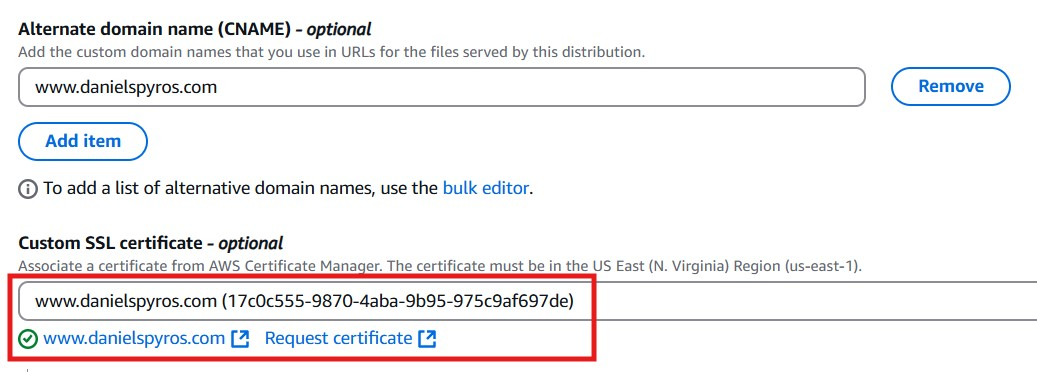
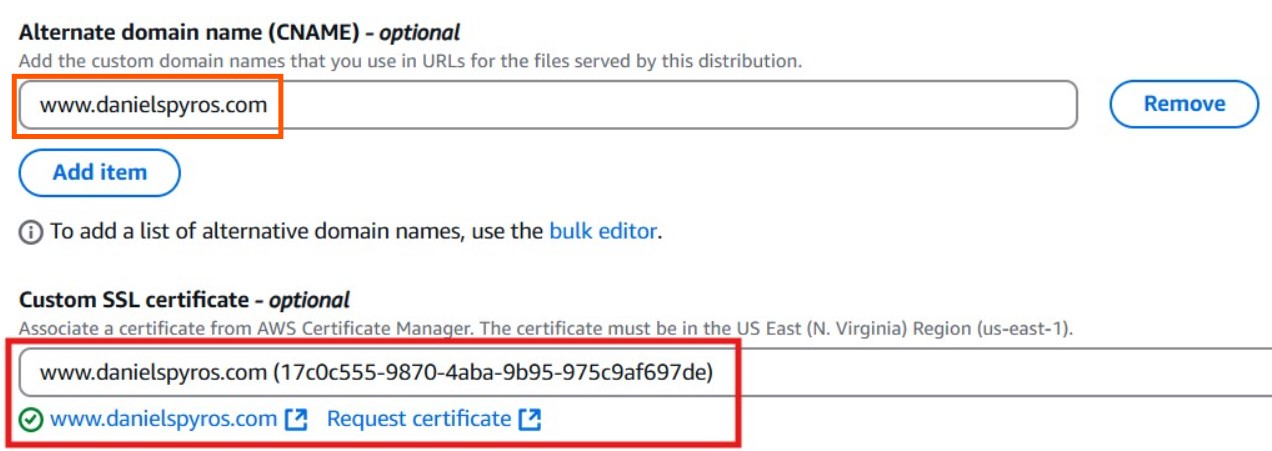
Add: cloudfront tutorial

Changed region(s): [[0.0, 0.621, 1.0, 1.0], [0.0, 0.0296, 1.0, 0.4435], [0.0, 0.4731, 0.5246, 0.5618]]

diff --git a/_posts/2025-01-19-Cloudfront.md b/_posts/2025-01-19-Cloudfront.md
@@ -1,62 +1,101 @@
 ---
-title: Serving Static Site from S3 Bucket over HTTPS with Cloudfront
+title: Serving Static Site from S3 Bucket over HTTPS with CloudFront
 description: 
-date: 2026-01-19 09:36:00 +0000
+date: 2025-01-19 13:36:00 +0000
 categories: [Software, Projects]
 tags: [aws, projects]
 author: daniel
 ---
-# Configuring for HTTPS
+# Overview
+
+This tutorial follows on from [Deploying a static site on AWS]({% post_url 2025-01-19-DeployingStaticSiteOnAWS %}). I will go through how to configure the site, that we set up in the last tutorial, to be served over HTTPS. 
+
+## Related Tutorials
+- Creating a static website using Jekyll (coming soon). 
+- [Deploying a static site on AWS]({% post_url 2025-01-19-DeployingStaticSiteOnAWS %}).
+- Serving Static Site from S3 Bucket over HTTPS with Cloudfront (this tutorial).
+- Automating the deployment of a static site using Github Actions (coming soon).
+
+# Prerequisites.
+
+1. A site being served from an S3 bucket. See [Deploying a static site on AWS]({% post_url 2025-01-19-DeployingStaticSiteOnAWS %}).
+2. Domain in Route53.
+
+# Tutorial
+
+## 1. Requesting a certificate
+
+Go to the AWS Certificate Manager and select the `us-east-1` (N. Virginia) region. You must create it in this region to be able to link it to a the CloudFront distribution that we will create afterwards.
+
+![Certificate Manager](/assets/img/Cloudfront/certificatemanager_request.jpg)
+
+Request a new public certificate. Click Next, then enter the fully qualified domain name:
+
+![Request certificate](/assets/img/Cloudfront/cloudfront_requestcertificate.jpg)
+
+This will create the certificate request. Now you need to create the records in Route 53.
+
+![Request Records](/assets/img/Cloudfront/cloudfront_createrecords.jpg)
+
+Once the records are created in Route 53, wait a couple minutes and refresh the certificate page. You should see that it is now issued.
+
+
+![Certificate Issued](/assets/img/Cloudfront/cloudfront_certificate_issue.jpg)
+
+## 2. Creating CloudFront distribution
+
+On the AWS console, go to CloudFront and create a new distribution.
 
 ![Create cloudfront distribution](/assets/img/Cloudfront/cloudfront_createdistribution.jpg)
+
+Select your S3 bucket domain as the Origin.
 
 ![Set cloudfront domain](/assets/img/Cloudfront/cloudfront_domain.jpg)
 
 Click the use website endpoint. This will change it to `www.danielspyros.com.s3-website.eu-west-2.amazonaws.com`.
 
-Leave it on "HTTP Only" and HTTP port 80
+Leave the prortocol on "HTTP Only" and HTTP port 80.
+
+Scroll down to the viewer and select your desired "Viewer protocol policy". Any of these will work so it is up to you.
 
 
 ![Set cloudfront viewer protocol policy](/assets/img/Cloudfront/cloudfront_protocol.jpg)
 
-
-![Set cloudfront certificate and alternate domain name](/assets/img/Cloudfront/cloudfront_certificate.jpg)
-
-Request a public certificate, then click Next.
-
-![Request certificate](/assets/img/Cloudfront/cloudfront_requestcertificate.jpg)
-
-![Request Records](/assets/img/Cloudfront/cloudfront_createrecords.jpg)
-
-Once the records are created in Route53, wait a couple minutes and refresh the certificate page. You should see that it is now issued.
-
-
-![Certificate Issued](/assets/img/Cloudfront/cloudfront_certificate_issue.jpg)
-
-Now that the certificate is issued. Select it in the cloudfront distribution that we were creating.
+Continue scrolling down and set an alternative domain name. You will also need to choose the certificate that we created in step 1. Notice that it says "The certificate must be in the US East (N. Virginia) Region (us-east-1)."  I wasn't making things up.
 
 ![Certificate Selected](/assets/img/Cloudfront/cloudfront_certificate_selected.jpg)
 
-Click Create Distribution. The distribution should now start deploying, this can take a few minutes. You can see its status here:
+Before you click "Create Distribution", you will need to select an option for the Web Application Firewall. Let's leave it disabled for now as it costs and our site is only static pages with no forms. 
+
+Once you click create, the distribution should now start deploying, this can take a few minutes. You can see its status here:
 
 ![Distribution Status](/assets/img/Cloudfront/cloudfront_distribution_deploying.jpg)
 
 It will change to a date once it has finished.
 
+## 3. Creating the alias to the cloudfront distribution
+
+If you followed the previous tutorial, you will have created an alias in Route 53 that linked your S3 bucket to the domain. You can either edit this record to point it to the CloudFront distribution instead, or delete this record and create a new one pointing to the CloudFront distribution.
 
 
+![Route 53 - Create record](/assets/img/Cloudfront/route53_editrecord.jpg)
 
-![Route 53 - Create record](/assets/img/Cloudfront/route53_createrecord.jpg)
+Route traffic to an "Alias to CloudFront distribution" and select your distribution.
 
 ![Route 53 - Create Alias](/assets/img/Cloudfront/route53_creatingalias.jpg)
 
-Leave the Routing Policy on Simple Routing.
+Create the records. They will take a few minutes to propagate, but hopefully it'll be done by the time we finish the next step.
 
+## 4. Modifying S3 Bucket Permissions
 
-# CICD
+Go to your distribution in CloudFront and copy the ARN of your distribution. Paste it in Notepad as we will need it shortly.
 
+![CloudFront ARN](/assets/img/Cloudfront/cloudfront_ids.jpg)
 
-Add permissions to S3 Bucket to allow uploading to bucket and cache invalidations of cloudfront. Not sure if this is for cache invalidations actually. might be configrued in IAM.
+"E18A9KTZH1BYBA" is the distribution id and "123456123123" is the account ID.
+
+Go to S3 and go to your bucket permissions. Edit the permissions to add the `AllowCloudFrontServicePrincipal`. You will need to replace the ARN with the ARN to your distribution. It should look something like this:
+
 ```json
 {
     "Version": "2008-10-17",
@@ -72,7 +111,7 @@ Add permissions to S3 Bucket to allow uploading to bucket and cache invalidation
             "Resource": "arn:aws:s3:::www.danielspyros.com/*",
             "Condition": {
                 "StringEquals": {
-                    "AWS:SourceArn": "arn:aws:cloudfront::296062577759:distribution/E3OSAEDN2J894S"
+                    "AWS:SourceArn": "arn:aws:cloudfront::[ACCOUNT_ID]:distribution/[DISTRIBUTION_ID]"
                 }
             }
         },
@@ -82,26 +121,19 @@ Add permissions to S3 Bucket to allow uploading to bucket and cache invalidation
             "Principal": "*",
             "Action": "s3:GetObject",
             "Resource": "arn:aws:s3:::www.danielspyros.com/*"
-        },
-        {
-            "Sid": "AllowJekyllGithubAction",
-            "Effect": "Allow",
-            "Principal": {
-                "AWS": "arn:aws:iam::296062577759:user/DanielBlogGithubActions"
-            },
-            "Action": [
-                "s3:PutObject",
-                "s3:GetObject",
-                "s3:ListBucket",
-                "s3:DeleteObject"
-            ],
-            "Resource": [
-                "arn:aws:s3:::www.danielspyros.com",
-                "arn:aws:s3:::www.danielspyros.com/*"
-            ]
         }
     ]
 }
 ```
 
+## 5. Visiting your website.
+
+Go to your website. If you did not select "Redirect HTTP to HTTPS" make sure you specify HTTPS in the address bar.
+
+
+![Daniel Spyros over HTTPS](/assets/img/Cloudfront/danielspyros_https.jpg)
+
+And there you have it, the site is being served over HTTPS.
+
+In the next tutorial, I will show you how to automate it with Github Actions CI/CD Pipelines.
 
